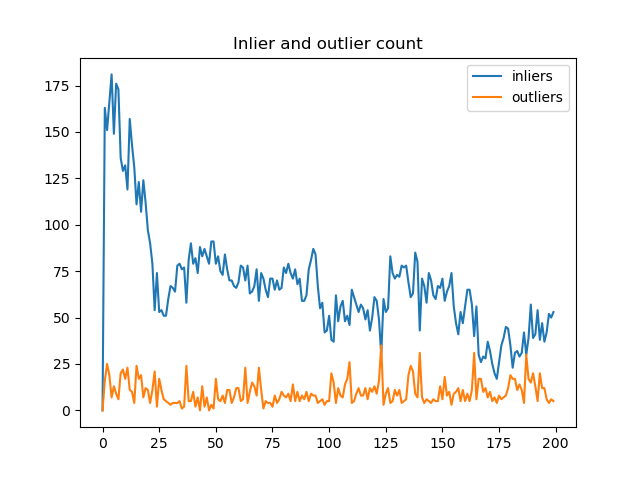
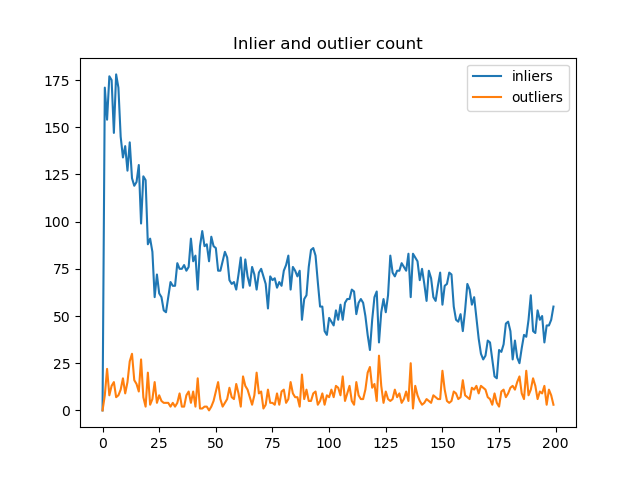
update

diff --git a/Project 2/Phase 2/proj2_2/meam620/proj2_2/code/sandbox_estimate_pose.py b/Project 2/Phase 2/proj2_2/meam620/proj2_2/code/sandbox_estimate_pose.py
@@ -23,7 +23,7 @@ focal_length = dataset.rectified_camera_matrix[0,0]
 
 pose_iterations = 3
 ransac_threshold = 3/focal_length
-ransac_iterations = 10
+ransac_iterations = 0
 
 R = Rotation.identity()
 T = np.zeros((3, 1))
@@ -87,16 +87,22 @@ plt.plot(translation[:, 2], label='Tz')
 plt.ylabel('meters')
 plt.title('Position of Quad')
 plt.legend()
-fig.savefig('../data_out/position_attitude.png')
+if ransac_iterations == 0:
+    fig.savefig('../data_out/position_attitude_iter_0.png')
 
+if ransac_iterations != 0:
+    fig.savefig('../data_out/position_attitude.png')
 plt.show()
 
-fig = plt.figure()
 
+fig = plt.figure()
 plt.plot(inlier_count, label='inliers')
 plt.plot(outlier_count, label='outliers')
 plt.title('Inlier and outlier count')
 plt.legend()
-fig.savefig('../data_out/inlier_outlier.png')
+if ransac_iterations == 0:
+    fig.savefig('../data_out/inlier_outlier_iter_0.png')
 
+if ransac_iterations != 0:
+    fig.savefig('../data_out/inlier_outlier.png')
 plt.show()
